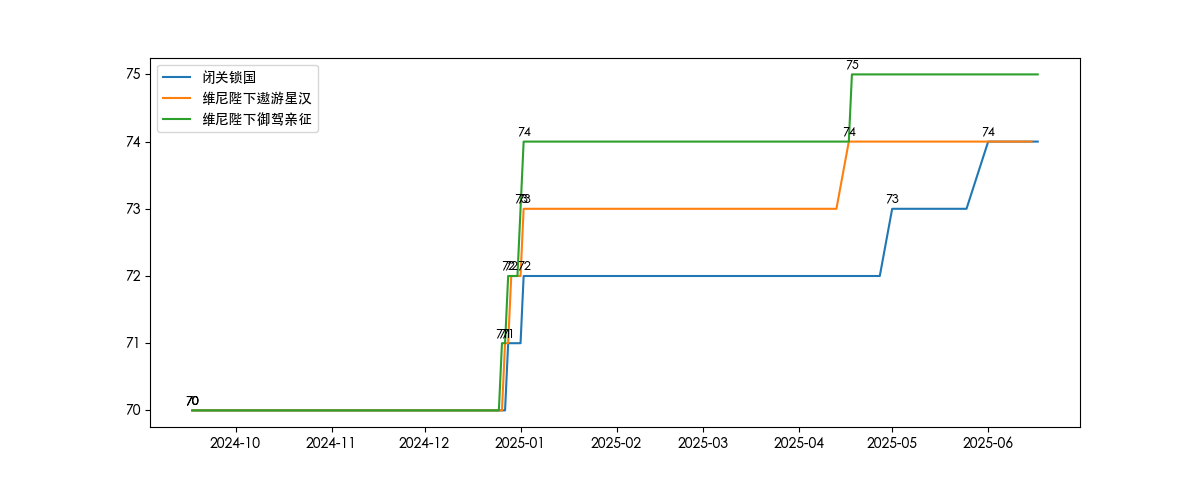
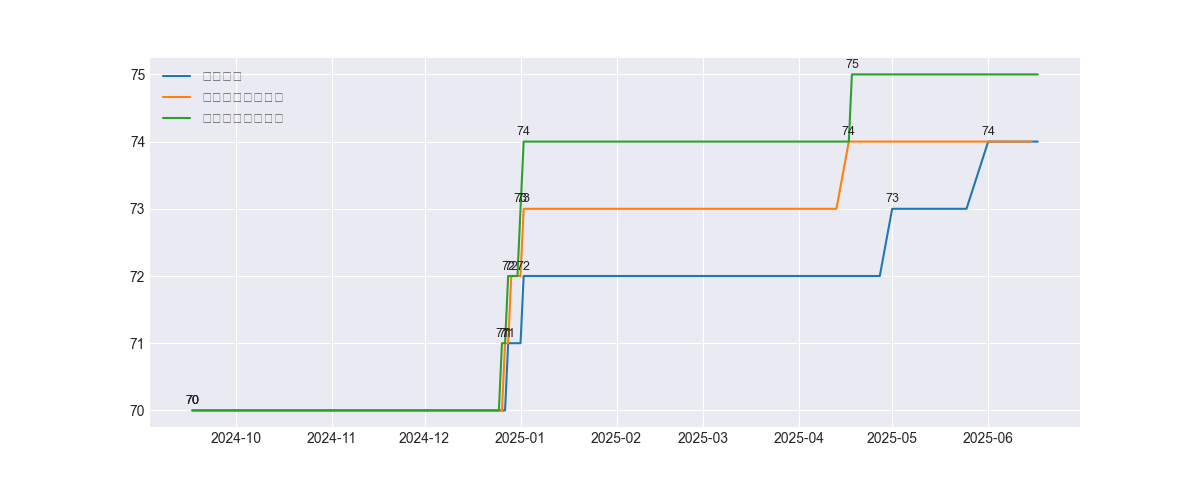
optimize fig generation

diff --git a/MakeFigs/MakePlayerFigs.py b/MakeFigs/MakePlayerFigs.py
@@ -7,6 +7,22 @@ from LocalClasses.LocalPlayer import LocalPlayer
 from Accounts.ClashDatabase import ClashDatabase
 from BasicData.SelectMode import PlayerType
 
+# 设置 Matplotlib 样式
+plt.style.use('seaborn-v0_8-darkgrid')
+
+# 这里使用一个列表，Matplotlib会尝试列表中的字体，直到找到一个可用的。
+plt.rcParams['font.sans-serif'] = [
+            'PingFang SC', # macOS 苹方简
+            'Heiti SC',    # macOS 黑体简
+            'Arial Unicode MS', # 广泛支持多语言的字体
+            'SimHei',      # Windows 黑体
+            'Microsoft YaHei', # Windows 微软雅黑
+            'WenQuanYi Zen Hei' # Linux 文泉驿正黑
+        ]# 解决负号 '-' 显示为方块的问题，或者不正确显示的问题
+plt.rcParams['axes.unicode_minus'] = False
+
+
+
 class MakePlayerFigs():
     def __init__(self, players: list[LocalPlayer], database: ClashDatabase, playerType: PlayerType):
         self.players = players
@@ -47,7 +63,8 @@ class MakePlayerFigs():
         elif self.playerType == PlayerType.ROBOT:
             dir = "pictures/figures/robots/"
         else:
-            return
+            return [] # 如果没有匹配的类型，返回空列表而不是None
+
         datas = self.processData()
         names = []
         xData = []
@@ -64,23 +81,86 @@ class MakePlayerFigs():
         for name in names:
             nameFile += f"_{name}"
         today = datetime.datetime.now().date()
+
         for i, info in enumerate(self.infos):
             plt.figure(i, figsize=(12.0, 4.8))
+
+            # --- 计算当前图表所有线的Y值范围，用于确定动态偏移量 ---
+            all_y_values_for_current_info = []
+            for y_line_data in yData[info]:
+                all_y_values_for_current_info.extend(y_line_data)
+
+            if len(all_y_values_for_current_info) > 1:
+                min_y = np.min(all_y_values_for_current_info)
+                max_y = np.max(all_y_values_for_current_info)
+                y_range = max_y - min_y
+                # 如果Y范围太小（比如所有值都相同），设置一个默认的最小范围，避免除以零或过小的偏移
+                if y_range == 0:
+                    y_range = np.mean(all_y_values_for_current_info) * 0.1 if np.mean(
+                        all_y_values_for_current_info) != 0 else 1.0
+                # 基础偏移量，通常是Y轴范围的1%到3%
+                base_vertical_offset_unit = y_range * 0.02
+            else:  # 如果只有一条线或没有数据，则使用默认的固定偏移
+                base_vertical_offset_unit = 0.05  # 一个合理的默认值
+
+            # 确保即使在极端情况下也有一个合理的最小偏移
+            if base_vertical_offset_unit < 0.05:
+                base_vertical_offset_unit = 0.05
+
+            # --- 优化文本标注部分 ---
             for j in range(len(xData)):
                 x = xData[j]
                 y = yData[info][j]
                 plt.plot(x, y, label=names[j])
+
                 lastB = None
-                for a, b in zip(x, y):
-                    if lastB != b:
-                        plt.text(a, b + 0.05, '%.0f' % b, ha='center', va='bottom', fontsize=9)
-                    lastB = b
+                last_labeled_idx = -1
+                max_labels_per_line = 15
+                # 动态调整标注间隔，避免过密
+                label_interval_points = max(1, len(x) // max_labels_per_line)
+
+                # 为每条线计算一个独特的垂直偏移系数
+                # 奇数线向上，偶数线向下，并逐渐增加偏移量，以避免相互遮挡
+                # 例如：线0: +1, 线1: -1, 线2: +2, 线3: -2, 线4: +3, 线5: -3 ...
+                vertical_offset_factor = (j % 2 * 2 - 1) * (j // 2 + 1)
+
+                # 最终的垂直偏移量
+                dynamic_vertical_offset = base_vertical_offset_unit * vertical_offset_factor
+
+                for k, (a, b) in enumerate(zip(x, y)):
+                    should_label = False
+
+                    # 1. 总是标注第一个点
+                    if k == 0:
+                        should_label = True
+                    # 2. 总是标注最后一个点
+                    elif k == len(x) - 1:
+                        should_label = True
+                    # 3. 如果Y值发生变化 并且 距离上次标注的点有足够的距离
+                    elif lastB is not None and lastB != b:
+                        if (k - last_labeled_idx) >= label_interval_points:
+                            should_label = True
+                    # 4. 如果是长线条且数值变化不大，确保每隔一段时间也有标签
+                    elif (k - last_labeled_idx) >= label_interval_points * 2:  # 比常规间隔更大一些
+                        should_label = True
+
+                    if should_label:
+                        # 使用动态计算的偏移量
+                        plt.text(a, b + dynamic_vertical_offset, '%.0f' % b, ha='center',
+                                 va='bottom' if dynamic_vertical_offset >= 0 else 'top', fontsize=9)
+                        last_labeled_idx = k  # 更新最后被标注的点的索引
+
+                    lastB = b  # 更新lastB为当前Y值，用于下次迭代比较
+            # --- 优化文本标注结束 ---
+
             plt.legend(loc='best')
+            plt.title(f"{info.replace('.', '')} 数据趋势")
+            plt.xlabel("时间点")
+            plt.ylabel(f"{info} 数值")
+
             filePath = f"{dir}{info.replace('.', '')}{nameFile}_{today}.png"
             plt.savefig(filePath)
             plt.close()
             filePaths.append(filePath)
         return filePaths
-
-
 

diff --git a/MakeFigs/__init__.py b/MakeFigs/__init__.py
@@ -6,9 +6,10 @@
 # @Software: PyCharm
 
 from matplotlib import pyplot as plt
+import numpy as np
 import datetime
 
 plt.rcParams['font.sans-serif']= ['Heiti TC']#防止中文乱码
 plt.rcParams['axes.unicode_minus']=False#解决负号'-'显示为方块的问题
 
-__all__ = ['plt', 'datetime']
+__all__ = ['plt', 'datetime', 'np']

diff --git a/README.md b/README.md
@@ -1,0 +1,94 @@
+# ClashSearch: 《部落冲突》数据管理与分析桌面应用
+
+ClashSearch 是一款基于 Python 和 PyQt6 开发的功能强大的《部落冲突》(Clash of Clans) 数据查询与管理桌面应用。它通过调用官方API获取实时数据，并利用本地MySQL数据库进行持久化存储，实现了对玩家和部落的深度追踪与可视化分析。
+
+## 📸 应用截图
+
+*(请在此处替换为你的应用截图，建议展示主界面、玩家详情和数据图表)*
+
+| 主界面 | 玩家详情 | 数据图表 |
+| :---: | :---: | :---: |
+| ![主界面截图](...) | ![玩家详情截图](...) | ![数据图表截图](...) |
+
+## ✨ 主要功能
+
+### 1. 深度信息查询与管理
+
+- **多维度玩家管理**:
+  - **我的玩家**: 管理您自己的游戏账号，支持绑定邮箱、日期等私有信息。
+  - **关注玩家**: 追踪任何您感兴趣的玩家，监控其发展动态。
+  - **脚本号管理**: 单独管理和更新大量脚本账号，并支持从文本文件批量导入。
+- **全方位部落追踪**:
+  - **部落管理**: 添加并管理您关心的部落，一览部落核心数据。
+  - **成员洞察**: 快速查看部落内所有成员的详细信息。
+  - **部落战分析**: 实时查看部落战与联赛的对战详情，包括双方成员的攻击情况、星数和摧毁率。
+  - **历史战绩**: 浏览并分析部落的完整对战日志。
+
+### 2. 本地化数据与每日快照
+
+- **数据持久化**: 所有关注的玩家和部落数据均存储在本地 **MySQL** 数据库中，访问迅速且数据安全。
+- **每日数据快照**: 系统每日会自动更新并创建数据快照，完整记录玩家和部落在每一天的状态，为历史数据分析提供坚实基础。
+
+### 3. 强大的数据可视化
+
+- **自定义图表生成**: 您可以选择任意数量的玩家和多达数十个数据项（如奖杯、英雄等级、资源掠夺、成就等）。
+- **历史趋势分析**: 应用会根据每日快照数据，利用 **Matplotlib** 动态生成清晰的数据变化趋势图，帮助您直观地分析玩家的发展轨迹。
+
+### 4. 高度灵活的自定义视图
+
+- **按需显示**: 用户可以自由勾选要在表格中显示的数据列，从基本信息到具体的英雄、兵种、法术、宠物、装备等级，甚至各项成就数据，实现完全个性化的数据视图。
+
+## 🛠 技术栈
+
+- **GUI 框架**: **PyQt6**
+- **核心语言**: **Python 3**
+- **异步处理**: **asyncio** & **qasync**
+  - 用于处理与API的异步网络请求，确保GUI界面的流畅与响应。
+- **API 交互**: **coc.py**
+  - 一个功能强大的异步库，用于与《部落冲突》官方API进行通信。
+- **数据库**: **MySQL**
+  - 通过 **PyMySQL** 驱动进行连接，负责所有数据的持久化存储。
+- **数据可视化**: **Matplotlib**
+  - 用于根据历史数据动态生成分析图表。
+
+## ⚙ 快速上手
+
+1.  **环境配置**:
+    - 确保已安装 Python 3.8+ 和 MySQL 数据库。
+    - 从 [Clash of Clans Developer Portal](https://developer.clashofclans.com/) 获取API密钥。
+
+2.  **安装依赖**:
+    ```bash
+    pip install coc.py "coc.py[speedup]" PyQt6 qasync pymysql matplotlib requests
+    ```
+
+3.  **配置信息**:
+    - 修改 `Accounts/AccountInfo.py` 文件，填入你的API密钥和数据库连接信息。
+    - **安全提示**: 建议将此文件加入 `.gitignore`，避免泄露个人凭证。
+
+4.  **运行应用**:
+    ```bash
+    python Main.py
+    ```
+
+## 📂 项目结构
+
+```
+ClashSearch/
+│
+├── Accounts/          # 封装认证、API交互和数据库逻辑
+├── BasicData/         # 存放游戏内物品、数据字段等静态常量
+├── LocalClasses/      # 本地化的数据模型类
+├── MakeFigs/          # 数据可视化图表生成模块
+├── ShowDialogs/       # 各类交互对话框 (添加/编辑/选择)
+├── ShowForms/         # 各类详情展示窗口 (玩家/部落/对战)
+├── ShowTables/        # 主界面表格的渲染与管理模块
+├── UI/                # 由 .ui 文件生成的界面布局代码
+├── pictures/          # 应用图标和图片资源
+│
+├── ClashSearch.py     # 主窗口核心应用逻辑
+└── Main.py            # 程序入口
+```
+
+## 代码仓库
+https://github.com/guokezhen999/ClashSearch
